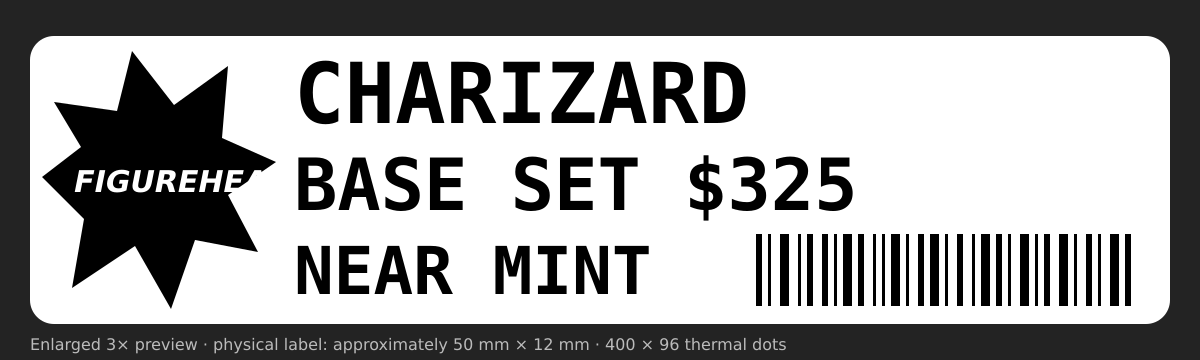
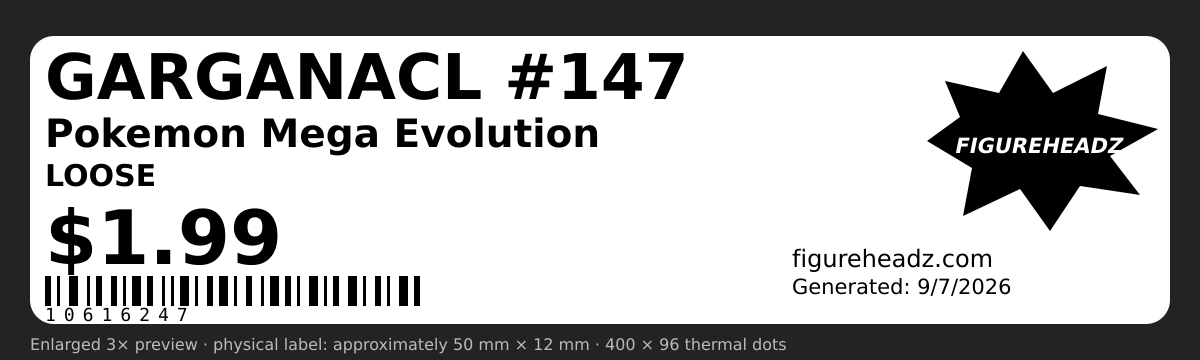
Match printed label reference layout

Changed region(s): [[0.0308, 0.1222, 0.6475, 0.8861], [0.6167, 0.1528, 0.9867, 0.8556], [0.555, 0.4278, 0.7092, 0.6111]]

diff --git a/artifacts/tcg-label-printer/modules/pricetag-printer/android/src/main/java/expo/modules/pricetagprinter/PriceTagPrinterModule.kt b/artifacts/tcg-label-printer/modules/pricetag-printer/android/src/main/java/expo/modules/pricetagprinter/PriceTagPrinterModule.kt
@@ -345,6 +345,17 @@ class PriceTagPrinterModule : Module() {
       val barcode = payload["barcode"] as? String
       val showBarcode = payload["showBarcode"] as? Boolean ?: false
       val showLogo = payload["showLogo"] as? Boolean ?: false
+      val content = LabelContent(
+        cardName = payload["cardName"] as? String ?: lines.first(),
+        series = payload["series"] as? String ?: lines.getOrNull(1).orEmpty(),
+        price = payload["price"] as? String ?: "",
+        condition = payload["condition"] as? String ?: lines.getOrNull(2).orEmpty(),
+        generatedAt = payload["generatedAt"] as? String ?: "",
+        stale = payload["stale"] as? Boolean ?: false,
+        barcode = barcode,
+        showBarcode = showBarcode,
+        showLogo = showLogo,
+      )
       if (lines.isEmpty()) {
         throw IllegalArgumentException("D11_LABEL_EMPTY: This label has no printable fields.")
       }
@@ -355,7 +366,7 @@ class PriceTagPrinterModule : Module() {
         )
       }
 
-      val job = createD11PrintJob(lines, barcode, showBarcode, showLogo)
+      val job = createD11PrintJob(content)
       synchronized(stateLock) {
         printRejection.reset()
         lastD11StatusPage = null
@@ -388,13 +399,8 @@ class PriceTagPrinterModule : Module() {
     }
   }
 
-  private fun createD11PrintJob(
-    lines: List<String>,
-    barcode: String?,
-    showBarcode: Boolean,
-    showLogo: Boolean,
-  ): D11PrintJob {
-    val bitmap = renderLabel(lines, barcode, showBarcode, showLogo)
+  private fun createD11PrintJob(content: LabelContent): D11PrintJob {
+    val bitmap = renderLabel(content)
     val frames = mutableListOf<ByteArray>()
     frames += D11Protocol.preflightFrames(bitmap.height, bitmap.width)
 
@@ -425,12 +431,7 @@ class PriceTagPrinterModule : Module() {
     )
   }
 
-  private fun renderLabel(
-    lines: List<String>,
-    barcode: String?,
-    showBarcode: Boolean,
-    showLogo: Boolean,
-  ): Bitmap {
+  private fun renderLabel(content: LabelContent): Bitmap {
     /*
      * The D11 consumes one bitmap row across the 96-dot print head and advances
      * the tape for each row. Render the label in its natural landscape
@@ -449,45 +450,55 @@ class PriceTagPrinterModule : Module() {
     val paint = Paint(Paint.ANTI_ALIAS_FLAG).apply {
       color = Color.BLACK
     }
-    val logoWidth = if (showLogo) LOGO_WIDTH_DOTS else 0
-    val barcodeWidths = if (showBarcode && !barcode.isNullOrBlank()) {
-      code128Widths(barcode.take(MAX_BARCODE_CHARS))
+    val barcodeValue = content.barcode?.take(MAX_BARCODE_CHARS).orEmpty()
+    val barcodeWidths = if (content.showBarcode && barcodeValue.isNotBlank()) {
+      code128Widths(barcodeValue)
     } else {
       emptyList()
     }
-    val barcodeWidth = barcodeWidths.sum()
-    val barcodeStart = if (barcodeWidth > 0) {
-      LABEL_LENGTH_DOTS - LABEL_PADDING_X - barcodeWidth
-    } else {
-      LABEL_LENGTH_DOTS
-    }
-    val textStart = LABEL_PADDING_X + logoWidth
-    val fullTextWidth = LABEL_LENGTH_DOTS - textStart - LABEL_PADDING_X
-    val bottomTextWidth = barcodeStart - textStart - LABEL_SECTION_GAP
     val boldTypeface = android.graphics.Typeface.create(
-      android.graphics.Typeface.MONOSPACE,
+      android.graphics.Typeface.SANS_SERIF,
       android.graphics.Typeface.BOLD
     )
-    if (showLogo) drawFigureheadzLogo(canvas, paint)
-
-    val visibleLines = lines.take(MAX_TEXT_LINES)
-    val textSizes = floatArrayOf(28f, 24f, 22f)
-    val baselines = floatArrayOf(29f, 58f, 86f)
-    visibleLines.forEachIndexed { index, line ->
-      paint.textSize = textSizes[index]
-      paint.typeface = boldTypeface
-      paint.isFakeBoldText = true
-      val lineWidth = if (index < 2) fullTextWidth else bottomTextWidth
-      canvas.drawText(
-        ellipsizeLine(line, paint, lineWidth),
-        textStart.toFloat(),
-        baselines[index],
-        paint
-      )
-    }
+    paint.typeface = boldTypeface
+    paint.isFakeBoldText = true
+    paint.textSize = 21f
+    canvas.drawText(ellipsizeLine(content.cardName.uppercase(), paint, CONTENT_WIDTH), 5f, 21f, paint)
+    paint.textSize = 13f
+    canvas.drawText(ellipsizeLine(content.series, paint, CONTENT_WIDTH), 5f, 37f, paint)
+    paint.textSize = 10f
+    canvas.drawText(ellipsizeLine(content.condition.uppercase(), paint, CONTENT_WIDTH), 5f, 50f, paint)
+    paint.textSize = 25f
+    canvas.drawText(ellipsizeLine(content.price, paint, PRICE_WIDTH), 5f, 76f, paint)
     paint.isFakeBoldText = false
     if (barcodeWidths.isNotEmpty()) {
-      drawBarcode(canvas, paint, barcodeWidths, barcodeStart)
+      drawBarcode(canvas, paint, barcodeWidths, BARCODE_LEFT)
+      paint.typeface = android.graphics.Typeface.create(
+        android.graphics.Typeface.MONOSPACE,
+        android.graphics.Typeface.NORMAL,
+      )
+      paint.textSize = 7f
+      canvas.drawText(barcodeValue, BARCODE_LEFT.toFloat(), 95f, paint)
+    }
+    if (content.showLogo) {
+      drawFigureheadzLogo(canvas, paint)
+    }
+    paint.typeface = android.graphics.Typeface.create(
+      android.graphics.Typeface.SANS_SERIF,
+      android.graphics.Typeface.NORMAL,
+    )
+    if (content.showLogo) {
+      paint.textSize = 8f
+      canvas.drawText("figureheadz.com", META_LEFT.toFloat(), 78f, paint)
+      if (content.generatedAt.isNotBlank()) {
+        paint.textSize = 7f
+        canvas.drawText("Generated: ${content.generatedAt}", META_LEFT.toFloat(), 88f, paint)
+      }
+      if (content.stale) {
+        paint.typeface = boldTypeface
+        paint.textSize = 7f
+        canvas.drawText("STALE PRICE", META_LEFT.toFloat(), 95f, paint)
+      }
     }
     val transportBitmap = Bitmap.createBitmap(
       LABEL_WIDTH_DOTS,
@@ -513,22 +524,22 @@ class PriceTagPrinterModule : Module() {
 
   private fun drawFigureheadzLogo(canvas: Canvas, paint: Paint) {
     val burst = Path().apply {
-      moveTo(4f, 47f)
-      lineTo(17f, 37f)
-      lineTo(8f, 22f)
-      lineTo(29f, 25f)
-      lineTo(34f, 5f)
-      lineTo(48f, 23f)
-      lineTo(66f, 10f)
-      lineTo(64f, 34f)
-      lineTo(82f, 42f)
-      lineTo(66f, 53f)
-      lineTo(76f, 72f)
-      lineTo(55f, 68f)
-      lineTo(47f, 91f)
-      lineTo(35f, 70f)
-      lineTo(14f, 84f)
-      lineTo(18f, 61f)
+      moveTo(309f, 35f)
+      lineTo(320f, 27f)
+      lineTo(315f, 15f)
+      lineTo(333f, 19f)
+      lineTo(341f, 5f)
+      lineTo(351f, 19f)
+      lineTo(369f, 10f)
+      lineTo(366f, 26f)
+      lineTo(386f, 31f)
+      lineTo(370f, 40f)
+      lineTo(380f, 53f)
+      lineTo(360f, 50f)
+      lineTo(350f, 65f)
+      lineTo(340f, 51f)
+      lineTo(321f, 60f)
+      lineTo(324f, 44f)
       close()
     }
     paint.style = Paint.Style.FILL
@@ -539,9 +550,9 @@ class PriceTagPrinterModule : Module() {
       "sans-serif-condensed",
       android.graphics.Typeface.BOLD_ITALIC,
     )
-    paint.textSize = 10f
+    paint.textSize = 7f
     paint.isFakeBoldText = true
-    canvas.drawText("FIGUREHEADZ", 12f, 53f, paint)
+    canvas.drawText("FIGUREHEADZ", 318f, 37f, paint)
     paint.isFakeBoldText = false
     paint.color = Color.BLACK
   }
@@ -555,9 +566,9 @@ class PriceTagPrinterModule : Module() {
       if (isBar) {
         canvas.drawRect(
           x.toFloat(),
-          BARCODE_TOP.toFloat(),
+          80f,
           (x + width).toFloat(),
-          (LABEL_WIDTH_DOTS - LABEL_PADDING_Y).toFloat(),
+          90f,
           paint,
         )
       }
@@ -1139,6 +1150,18 @@ class PriceTagPrinterModule : Module() {
     val preflightFrameCount: Int,
   )
 
+  private data class LabelContent(
+    val cardName: String,
+    val series: String,
+    val price: String,
+    val condition: String,
+    val generatedAt: String,
+    val stale: Boolean,
+    val barcode: String?,
+    val showBarcode: Boolean,
+    val showLogo: Boolean,
+  )
+
   private data class D11Response(
     val command: Int,
     val data: ByteArray
@@ -1181,11 +1204,11 @@ class PriceTagPrinterModule : Module() {
     private const val LABEL_LENGTH_DOTS = 400
     private const val LABEL_PADDING_X = 4
     private const val LABEL_PADDING_Y = 6
-    private const val LOGO_WIDTH_DOTS = 82
-    private const val LABEL_SECTION_GAP = 6
-    private const val MAX_TEXT_LINES = 3
     private const val MAX_BARCODE_CHARS = 10
-    private const val BARCODE_TOP = 66
+    private const val CONTENT_WIDTH = 292
+    private const val PRICE_WIDTH = 245
+    private const val BARCODE_LEFT = 5
+    private const val META_LEFT = 264
     private val CODE128_SYMBOLS = listOf(
       "212222", "222122", "222221", "121223", "121322", "131222", "122213", "122312",
       "132212", "221213", "221312", "231212", "112232", "122132", "122231", "113222",

diff --git a/artifacts/tcg-label-printer/services/printer.ts b/artifacts/tcg-label-printer/services/printer.ts
@@ -240,6 +240,12 @@ export async function sendToPrinter(
     lines: getPrintableLines(label).filter(
       (line) => !line.startsWith('ID: ') && line !== 'figureheadz.com',
     ),
+    cardName: label.cardName,
+    series: label.series,
+    price: label.value,
+    condition: label.condition ?? 'Price',
+    generatedAt: formatGeneratedDate(label.generatedAt),
+    stale: label.stale ?? false,
     barcode: label.cardId ?? label.cardName,
     showBarcode: fields.includes('barcode'),
     showLogo: fields.includes('website'),

diff --git a/artifacts/tcg-label-printer/modules/pricetag-printer/src/index.ts b/artifacts/tcg-label-printer/modules/pricetag-printer/src/index.ts
@@ -18,6 +18,12 @@ export type NativePrinterConnection = {
 
 export type NativePrinterLabel = {
   lines: string[];
+  cardName?: string;
+  series?: string;
+  price?: string;
+  condition?: string;
+  generatedAt?: string;
+  stale?: boolean;
   barcode?: string;
   showBarcode?: boolean;
   showLogo?: boolean;
